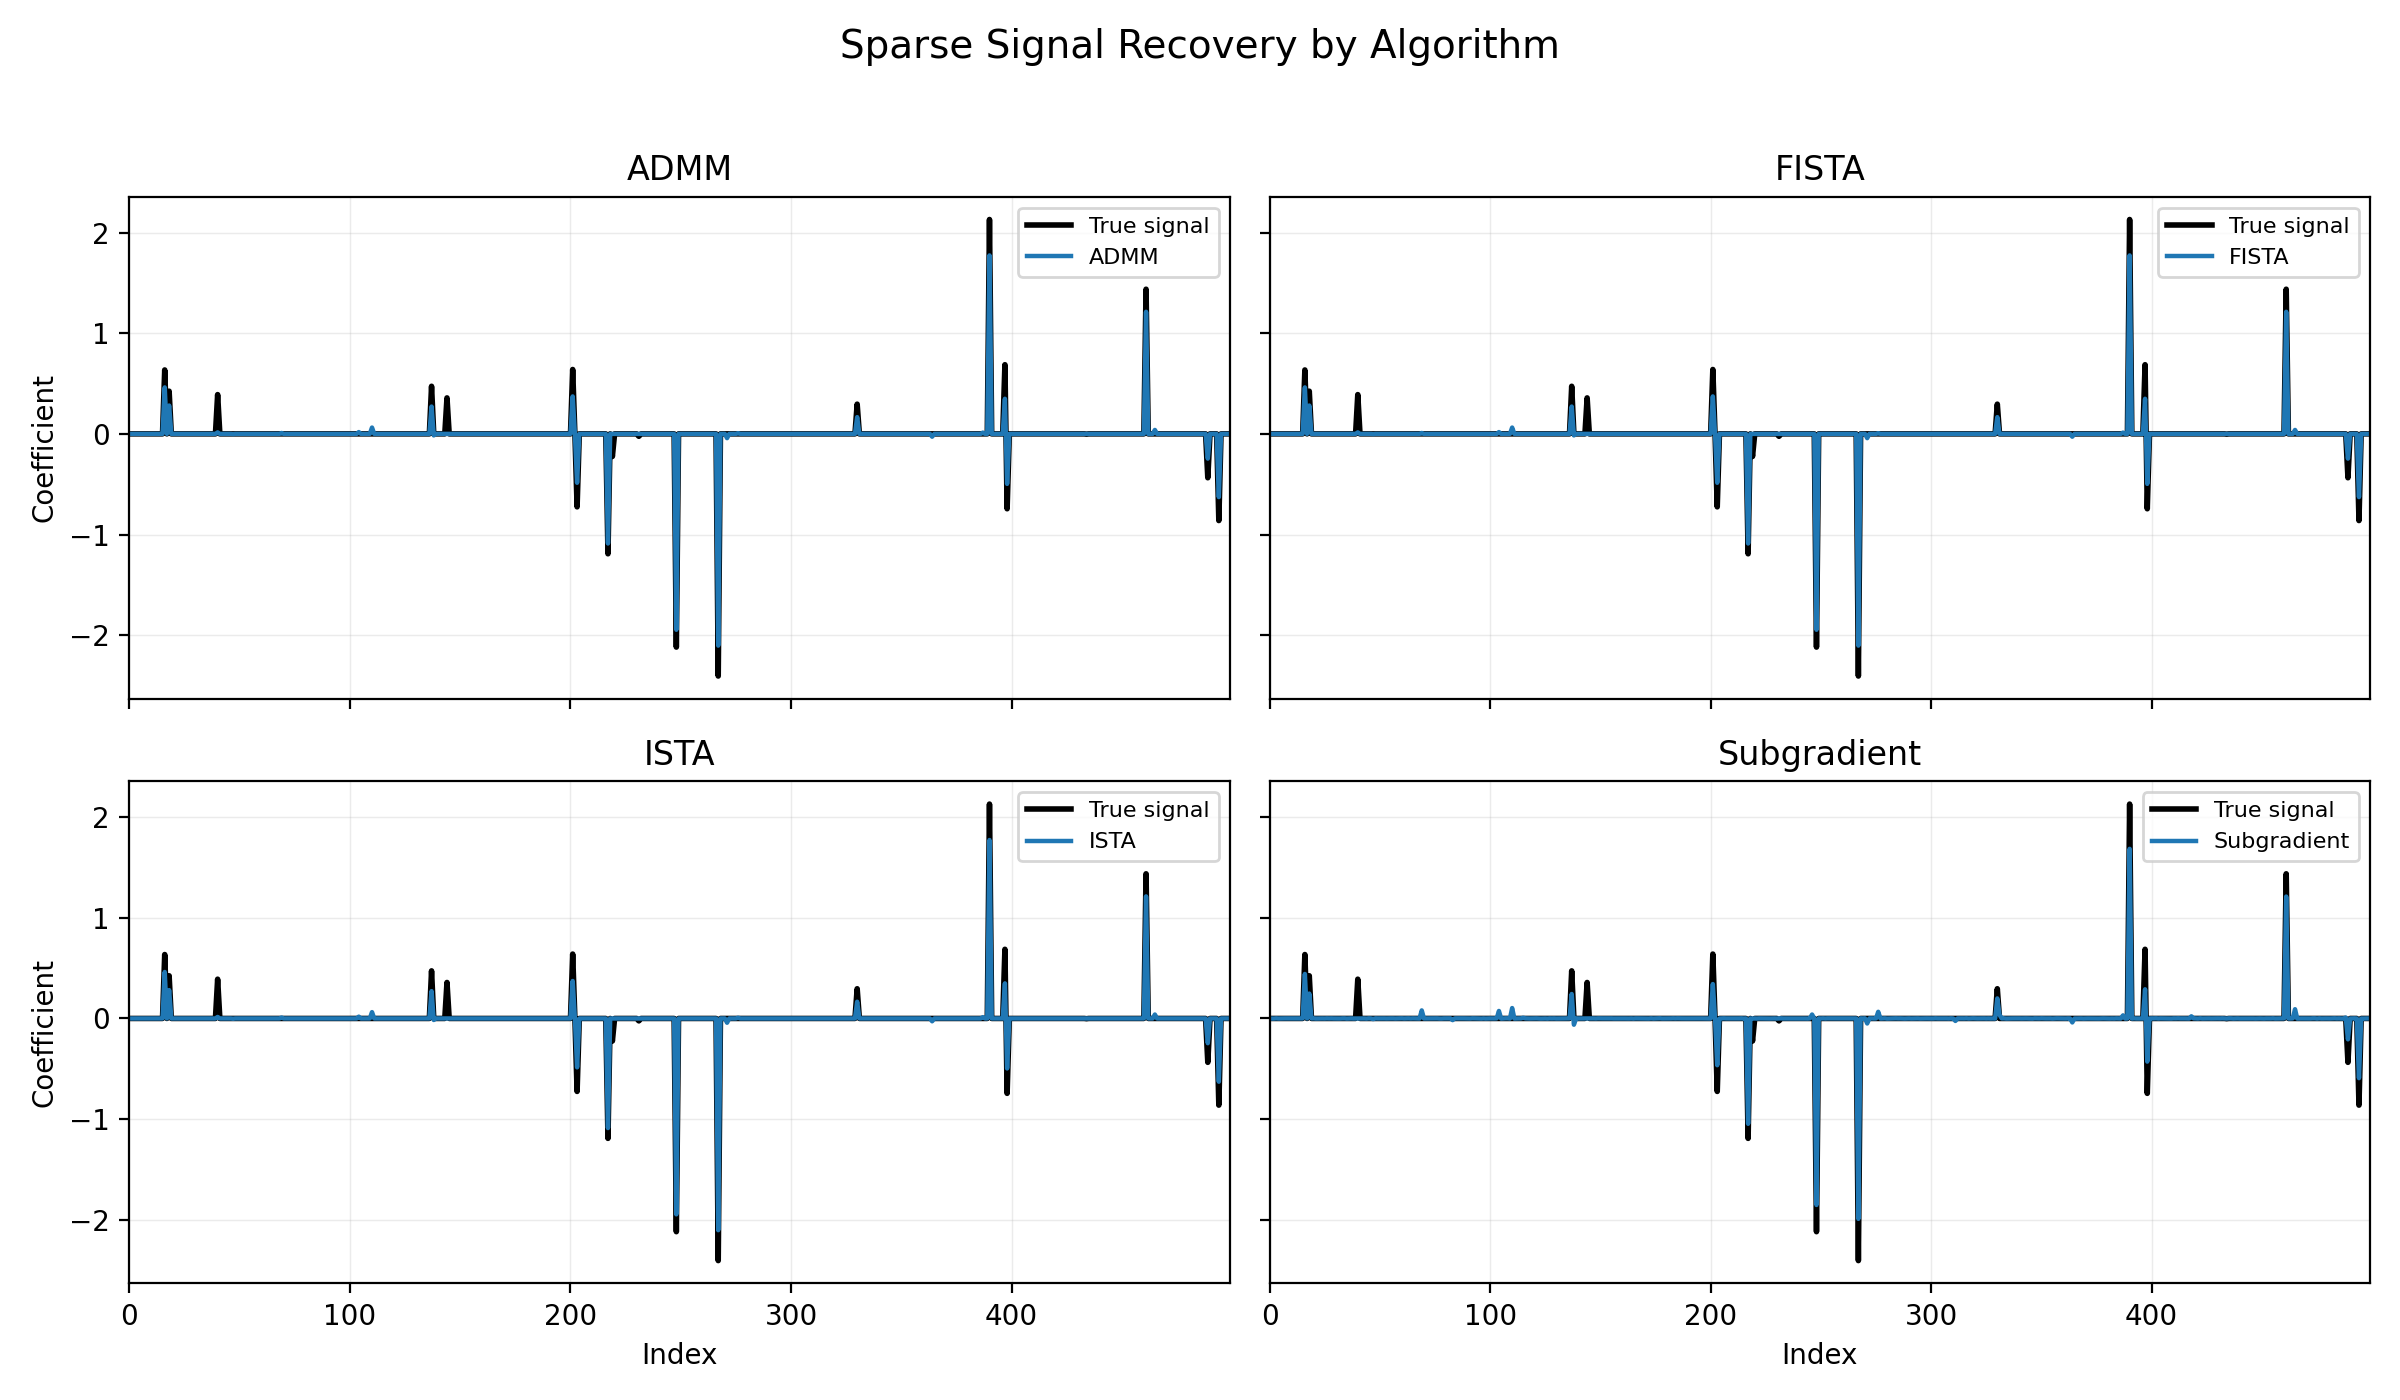
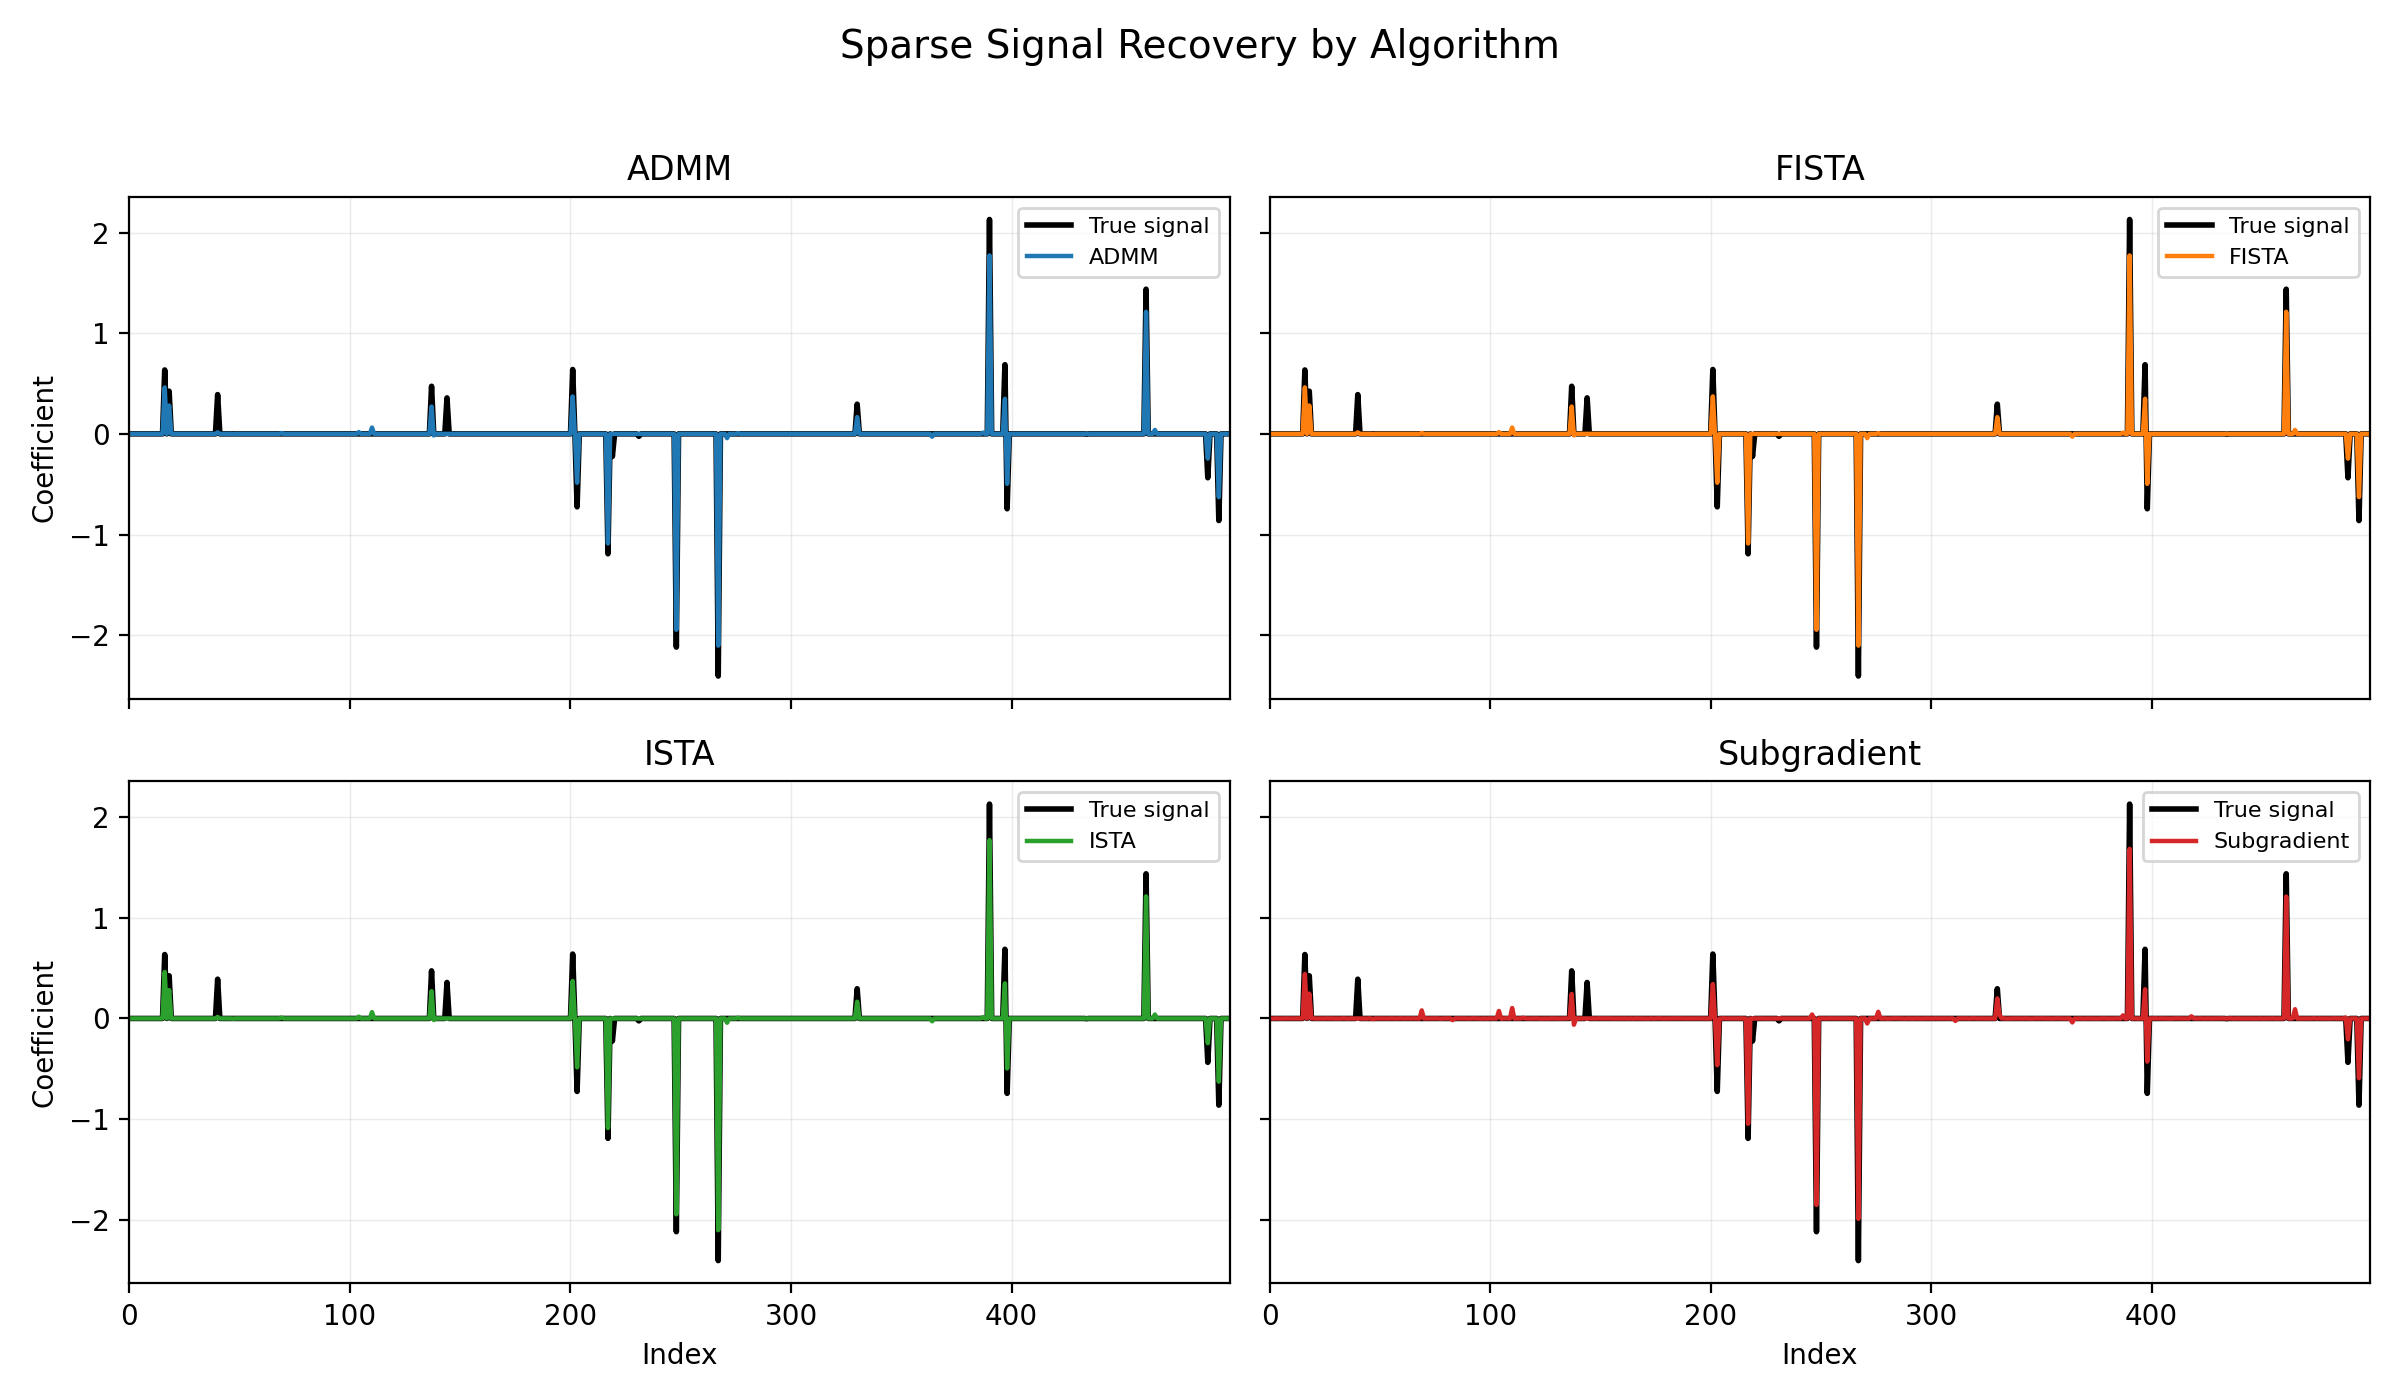
Improve sparse recovery figure colors and refresh final report

Changed region(s): [[0.0625, 0.6757, 1.0, 0.86], [0.5312, 0.2457, 1.0, 0.4607]]

diff --git a/src/experiments.py b/src/experiments.py
@@ -437,6 +437,12 @@ def plot_coefficients(x_star, results, result_dir, filename):
     # 将四种算法拆成 2x2 子图展示，并统一横纵坐标范围，
     # 避免多条曲线叠在一张图里难以区分。
     ordered_names = ["ADMM", "FISTA", "ISTA", "Subgradient"]
+    algorithm_colors = {
+        "ADMM": "tab:blue",
+        "FISTA": "tab:orange",
+        "ISTA": "tab:green",
+        "Subgradient": "tab:red",
+    }
     all_series = [x_star] + [results[name]["x_hat"] for name in ordered_names]
     y_min = min(np.min(series) for series in all_series)
     y_max = max(np.max(series) for series in all_series)
@@ -453,7 +459,7 @@ def plot_coefficients(x_star, results, result_dir, filename):
             results[name]["x_hat"],
             label=name,
             linewidth=1.6,
-            color="tab:blue",
+            color=algorithm_colors[name],
         )
         ax.set_title(name)
         ax.set_xlim(0, len(x_star) - 1)